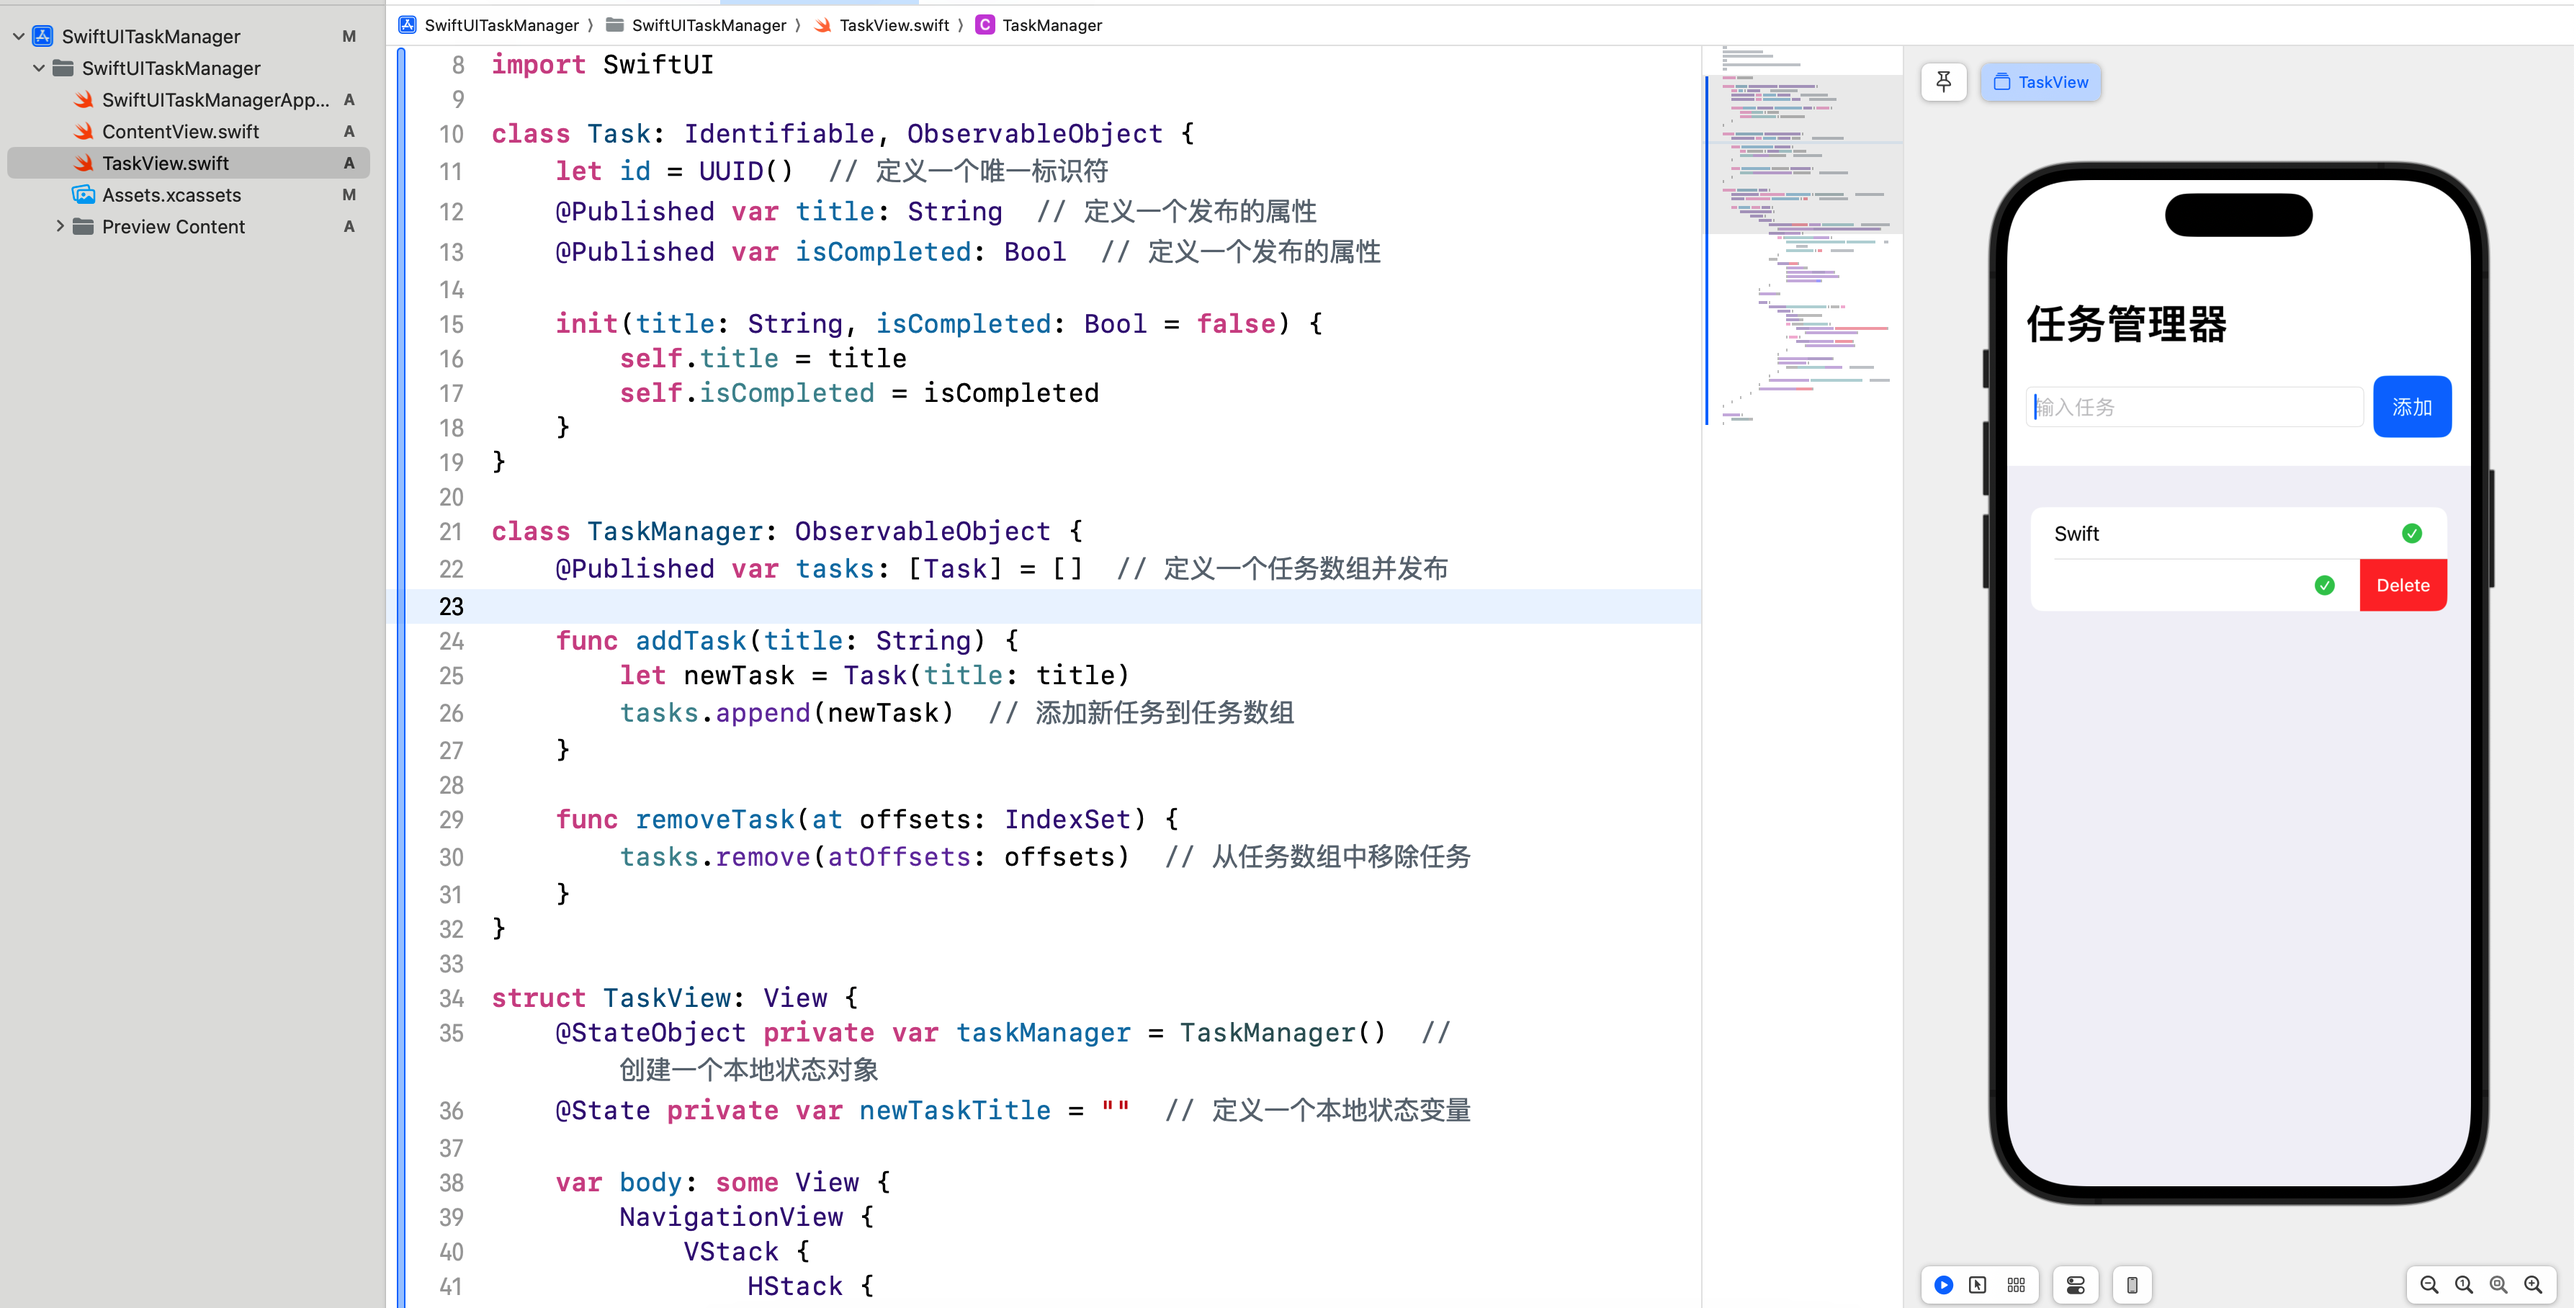
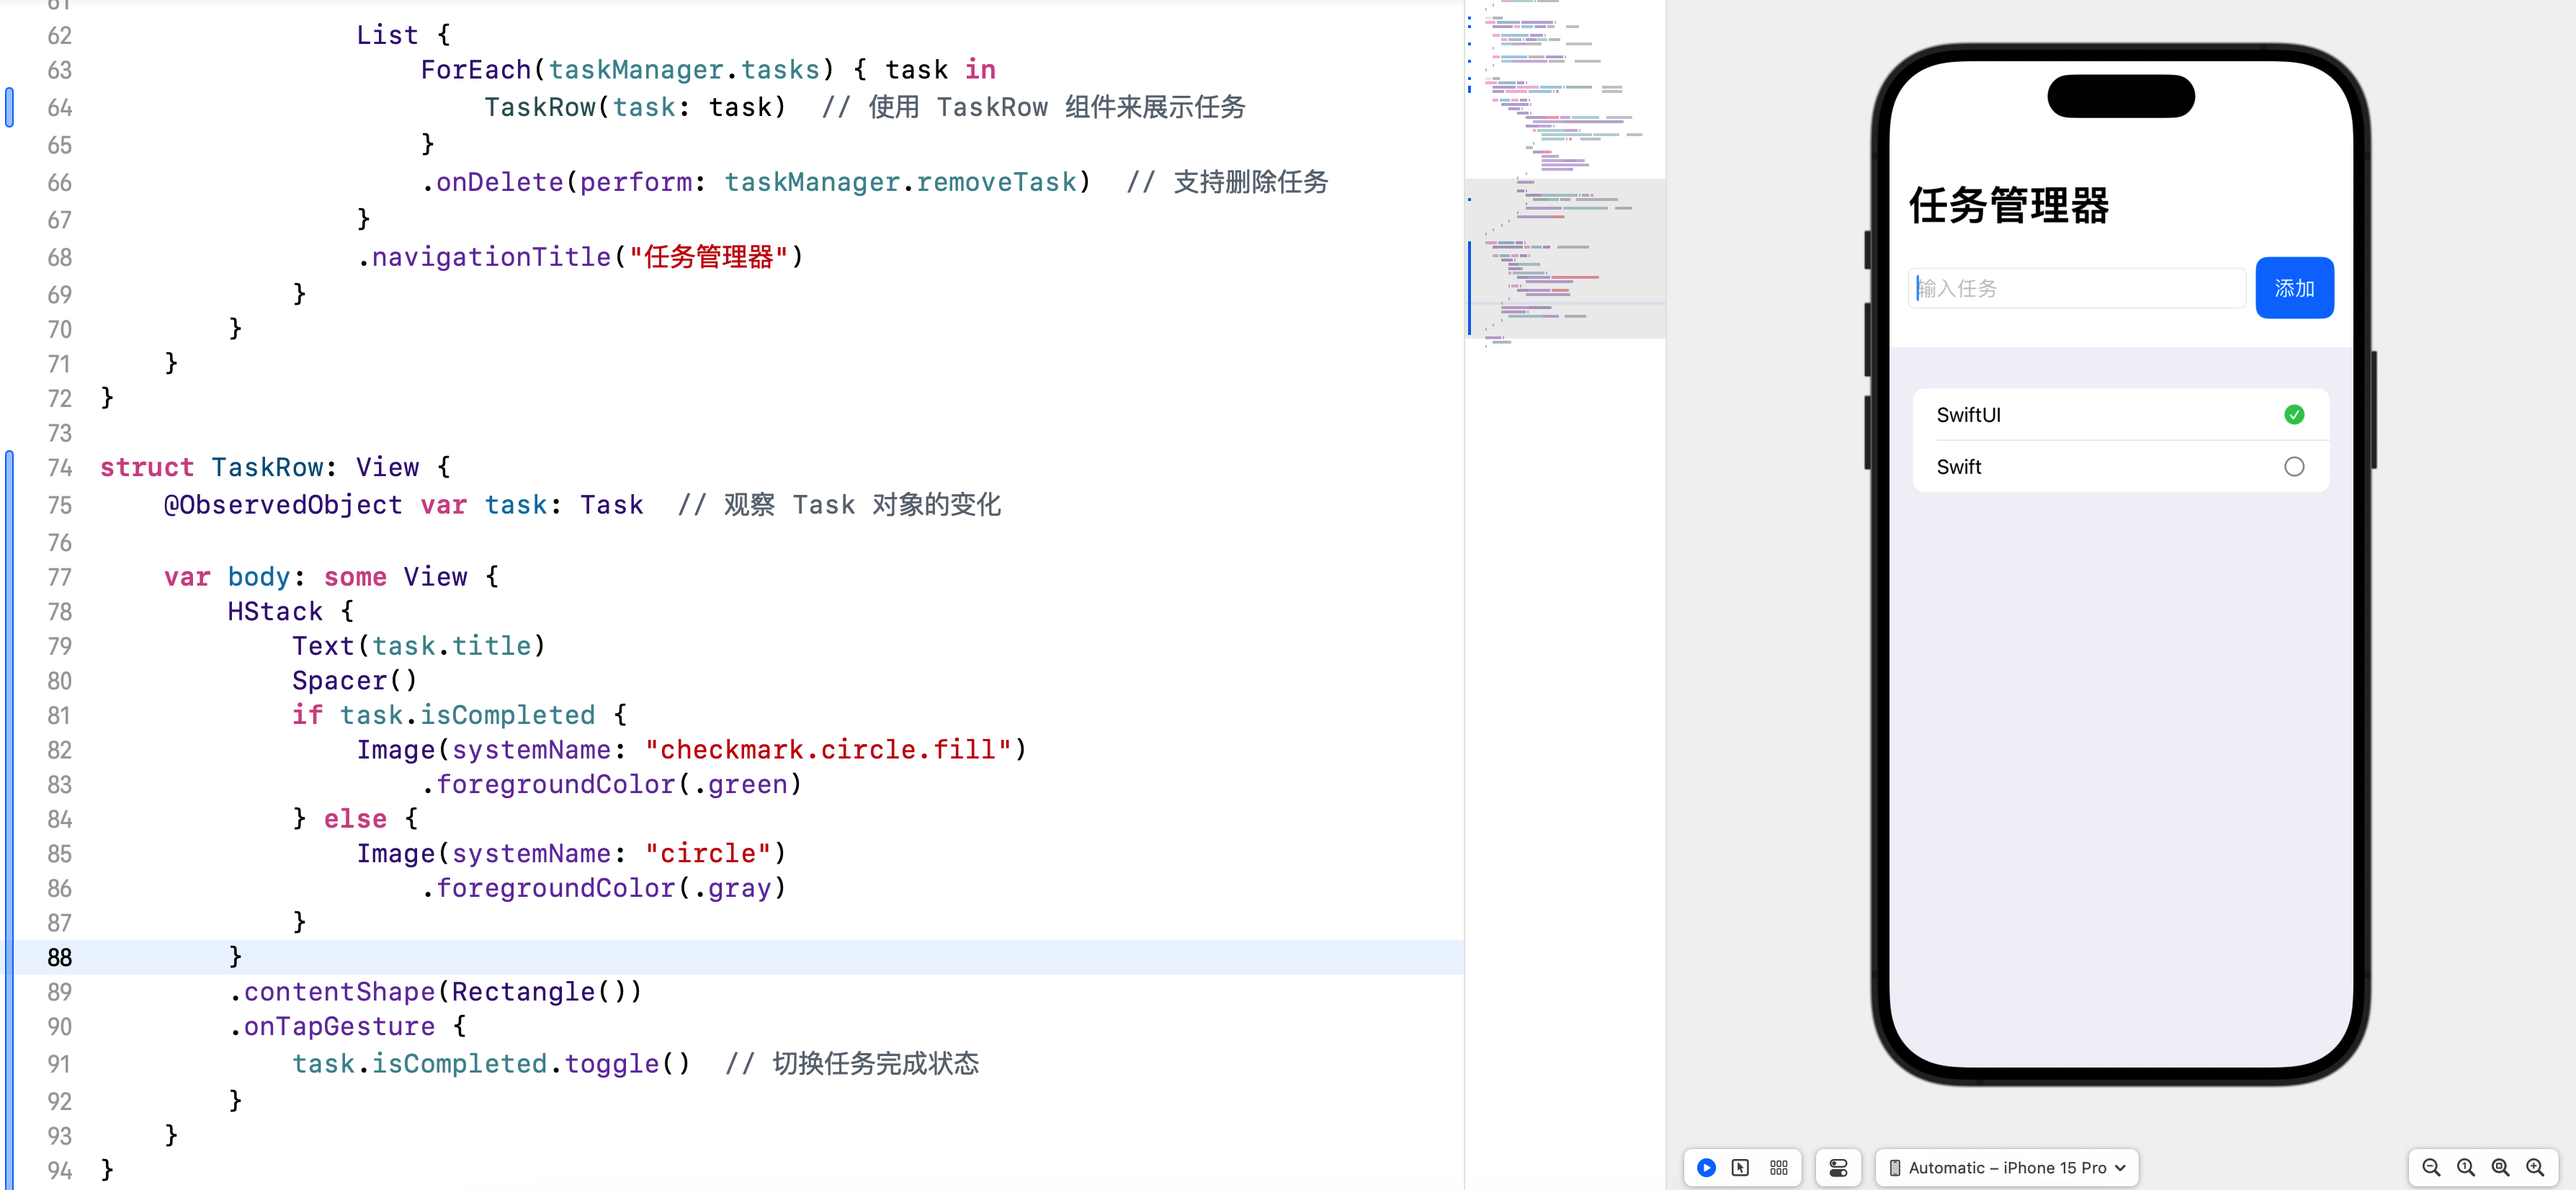
fixed: modify swiftui quick start part3 task manager

diff --git a/src/iOS/swiftui/SwiftUITaskManager/SwiftUITaskManager/TaskView.swift b/src/iOS/swiftui/SwiftUITaskManager/SwiftUITaskManager/TaskView.swift
@@ -7,10 +7,11 @@
 
 import SwiftUI
 
+/// 任务
 class Task: Identifiable, ObservableObject {
-    let id = UUID()  // 定义一个唯一标识符
-    @Published var title: String  // 定义一个发布的属性
-    @Published var isCompleted: Bool  // 定义一个发布的属性
+    let id = UUID()                     // 唯一标识符
+    @Published var title: String        // 任务标题
+    @Published var isCompleted: Bool    // 是否完成
     
     init(title: String, isCompleted: Bool = false) {
         self.title = title
@@ -18,22 +19,24 @@ class Task: Identifiable, ObservableObject {
     }
 }
 
+/// 任务管理器
 class TaskManager: ObservableObject {
-    @Published var tasks: [Task] = []  // 定义一个任务数组并发布
+    @Published var tasks: [Task] = []   // 任务数组
     
     func addTask(title: String) {
         let newTask = Task(title: title)
-        tasks.append(newTask)  // 添加新任务到任务数组
+        tasks.append(newTask)           // 添加新任务到任务数组
     }
     
     func removeTask(at offsets: IndexSet) {
-        tasks.remove(atOffsets: offsets)  // 从任务数组中移除任务
+        tasks.remove(atOffsets: offsets)    // 从任务数组中移除任务
     }
 }
 
+/// 任务视图
 struct TaskView: View {
-    @StateObject private var taskManager = TaskManager()  // 创建一个本地状态对象
-    @State private var newTaskTitle = ""  // 定义一个本地状态变量
+    @StateObject private var taskManager = TaskManager()  // 任务管理器状态
+    @State private var newTaskTitle = ""                  // 新任务标题状态
     
     var body: some View {
         NavigationView {
@@ -58,26 +61,34 @@ struct TaskView: View {
                 
                 List {
                     ForEach(taskManager.tasks) { task in
-                        HStack {
-                            Text(task.title)
-                            Spacer()
-                            if task.isCompleted {
-                                Image(systemName: "checkmark.circle.fill")
-                                    .foregroundColor(.green)
-                            } else {
-                                Image(systemName: "circle")
-                                    .foregroundColor(.gray)
-                            }
-                        }
-                        .contentShape(Rectangle())
-                        .onTapGesture {
-                            task.isCompleted.toggle()  // 切换任务完成状态
-                        }
+                        TaskRow(task: task)  // 使用 TaskRow 组件来展示任务
                     }
                     .onDelete(perform: taskManager.removeTask)  // 支持删除任务
                 }
                 .navigationTitle("任务管理器")
             }
+        }
+    }
+}
+
+struct TaskRow: View {
+    @ObservedObject var task: Task  // 观察 Task 对象的变化
+    
+    var body: some View {
+        HStack {
+            Text(task.title)
+            Spacer()
+            if task.isCompleted {
+                Image(systemName: "checkmark.circle.fill")
+                    .foregroundColor(.green)
+            } else {
+                Image(systemName: "circle")
+                    .foregroundColor(.gray)
+            }
+        }
+        .contentShape(Rectangle())
+        .onTapGesture {
+            task.isCompleted.toggle()  // 切换任务完成状态
         }
     }
 }

diff --git a/docs/iOS/swiftui/swiftui-quick-start-part3-state-management.md b/docs/iOS/swiftui/swiftui-quick-start-part3-state-management.md
@@ -216,10 +216,11 @@ struct ChildView2: View {
 ```swift
 import SwiftUI
 
+/// 任务
 class Task: Identifiable, ObservableObject {
-    let id = UUID()  // 定义一个唯一标识符
-    @Published var title: String  // 定义一个发布的属性
-    @Published var isCompleted: Bool  // 定义一个发布的属性
+    let id = UUID()                     // 唯一标识符
+    @Published var title: String        // 任务标题
+    @Published var isCompleted: Bool    // 是否完成
     
     init(title: String, isCompleted: Bool = false) {
         self.title = title
@@ -227,22 +228,24 @@ class Task: Identifiable, ObservableObject {
     }
 }
 
+/// 任务管理器
 class TaskManager: ObservableObject {
-    @Published var tasks: [Task] = []  // 定义一个任务数组并发布
+    @Published var tasks: [Task] = []   // 任务数组
     
     func addTask(title: String) {
         let newTask = Task(title: title)
-        tasks.append(newTask)  // 添加新任务到任务数组
+        tasks.append(newTask)           // 添加新任务到任务数组
     }
     
     func removeTask(at offsets: IndexSet) {
-        tasks.remove(atOffsets: offsets)  // 从任务数组中移除任务
+        tasks.remove(atOffsets: offsets)    // 从任务数组中移除任务
     }
 }
 
+/// 任务视图
 struct TaskView: View {
-    @StateObject private var taskManager = TaskManager()  // 创建一个本地状态对象
-    @State private var newTaskTitle = ""  // 定义一个本地状态变量
+    @StateObject private var taskManager = TaskManager()  // 任务管理器状态
+    @State private var newTaskTitle = ""                  // 新任务标题状态
     
     var body: some View {
         NavigationView {
@@ -267,26 +270,34 @@ struct TaskView: View {
                 
                 List {
                     ForEach(taskManager.tasks) { task in
-                        HStack {
-                            Text(task.title)
-                            Spacer()
-                            if task.isCompleted {
-                                Image(systemName: "checkmark.circle.fill")
-                                    .foregroundColor(.green)
-                            } else {
-                                Image(systemName: "circle")
-                                    .foregroundColor(.gray)
-                            }
-                        }
-                        .contentShape(Rectangle())
-                        .onTapGesture {
-                            task.isCompleted.toggle()  // 切换任务完成状态
-                        }
+                        TaskRow(task: task)  // 使用 TaskRow 组件来展示任务
                     }
                     .onDelete(perform: taskManager.removeTask)  // 支持删除任务
                 }
                 .navigationTitle("任务管理器")
             }
+        }
+    }
+}
+
+struct TaskRow: View {
+    @ObservedObject var task: Task  // 观察 Task 对象的变化
+    
+    var body: some View {
+        HStack {
+            Text(task.title)
+            Spacer()
+            if task.isCompleted {
+                Image(systemName: "checkmark.circle.fill")
+                    .foregroundColor(.green)
+            } else {
+                Image(systemName: "circle")
+                    .foregroundColor(.gray)
+            }
+        }
+        .contentShape(Rectangle())
+        .onTapGesture {
+            task.isCompleted.toggle()  // 切换任务完成状态
         }
     }
 }
